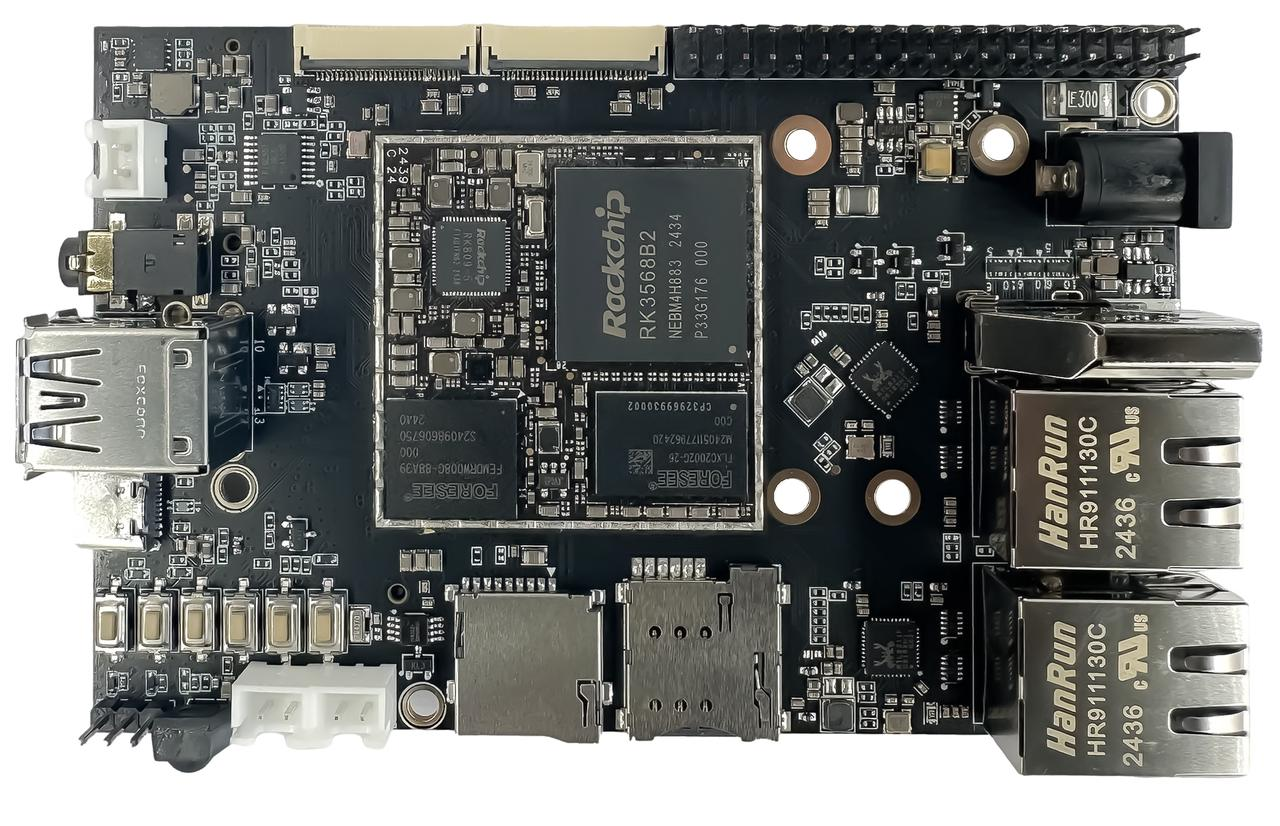
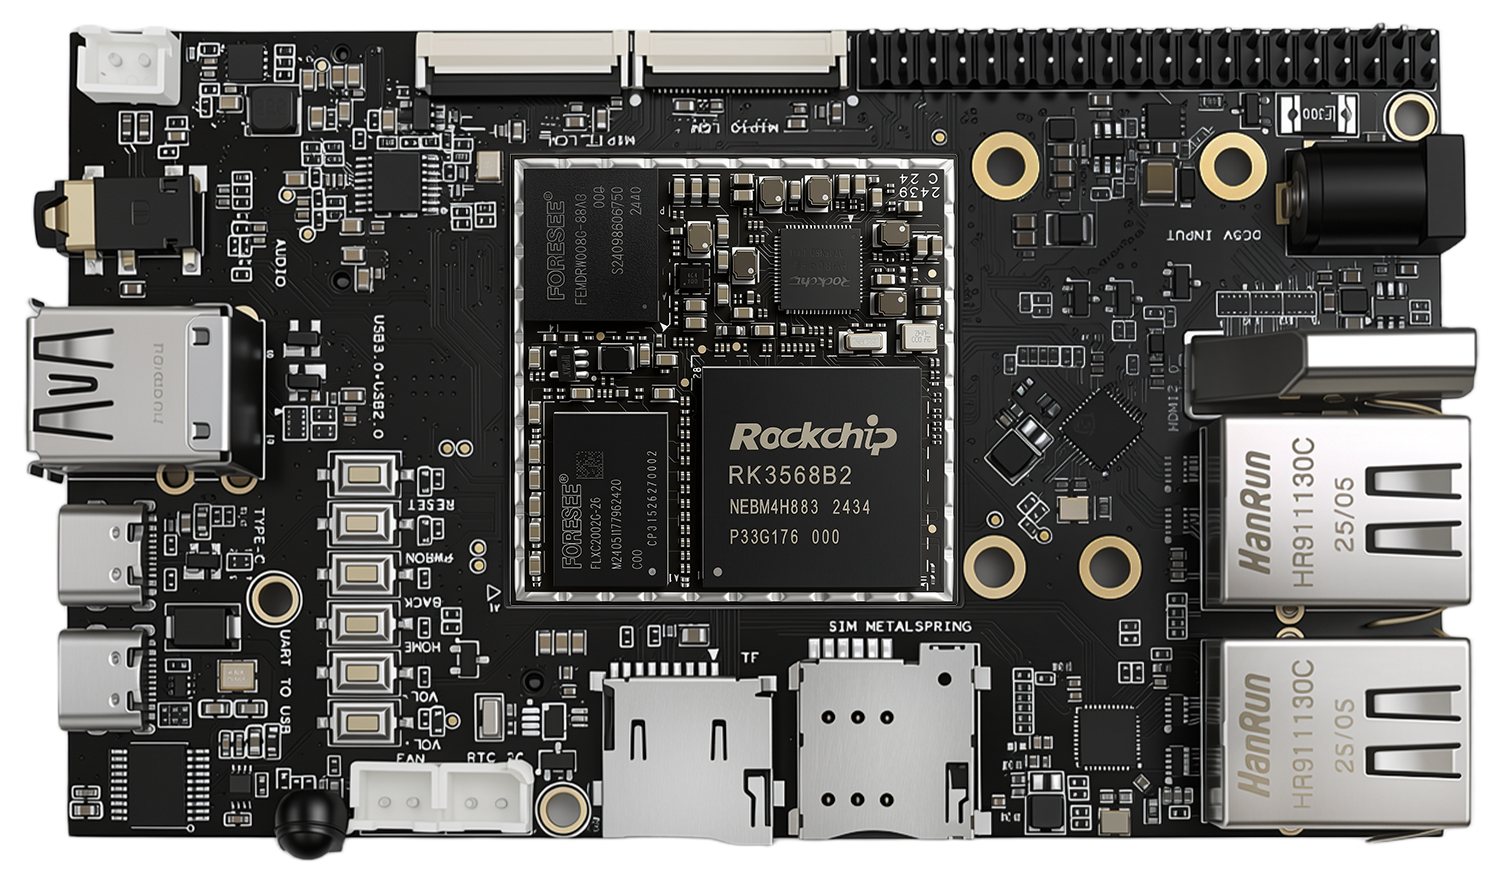
update 3568 doc image

diff --git a/docs/MYZR-瑞芯微系列/MYZR-RK3568-EK320(EN)/Product Introduction.rst b/docs/MYZR-瑞芯微系列/MYZR-RK3568-EK320(EN)/Product Introduction.rst
@@ -65,6 +65,7 @@ Signal Definition
 
 - Refer to the network disk: 2. Hardware Data -> 2.1- Principle and PCB -> Core Board Schematic Diagram
 
+
 Core Board Introduction
 --------------------------
 
@@ -89,19 +90,29 @@ Core Board Introduction
 Base Board Introduction
 --------------------------
 
-- Front view of the base board
+- Front view of the core board
 
 .. figure:: /image/MYZR-瑞芯微系列/MYZR-RK3568-EK320/底板正面图.jpg
    :alt: 底板正面图.jpg
    :width: 60%
 
-- Interface diagram of the base board
+- Back view of the core board
+
+.. figure:: /image/MYZR-瑞芯微系列/MYZR-RK3568-EK320/底板背面图.jpg
+   :alt: 底板背面图.jpg
+   :width: 60%
+
+- Dimension drawing of the core board
 
 .. figure:: /image/MYZR-瑞芯微系列/MYZR-RK3568-EK320/底板接口图.jpg
    :alt: 底板接口图.jpg
    :width: 60%
 
-- Dimension drawing of the base board
+.. figure:: /image/MYZR-瑞芯微系列/MYZR-RK3568-EK320/底板接口图2.jpg
+   :alt: 底板接口图2.jpg
+   :width: 60%
+
+- Base Plate Dimension Drawing
 
 .. figure:: /image/MYZR-瑞芯微系列/MYZR-RK3568-EK320/底板尺寸图.png
    :alt: 底板尺寸图.png

diff --git a/docs/MYZR-瑞芯微系列/MYZR-RK3568-EK320/产品介绍.rst b/docs/MYZR-瑞芯微系列/MYZR-RK3568-EK320/产品介绍.rst
@@ -97,10 +97,20 @@
    :alt: 底板正面图.jpg
    :width: 60%
 
+- 底板背面图
+
+.. figure:: /image/MYZR-瑞芯微系列/MYZR-RK3568-EK320/底板背面图.jpg
+   :alt: 底板背面图.jpg
+   :width: 60%
+
 - 底板接口图
 
 .. figure:: /image/MYZR-瑞芯微系列/MYZR-RK3568-EK320/底板接口图.jpg
    :alt: 底板接口图.jpg
+   :width: 60%
+
+.. figure:: /image/MYZR-瑞芯微系列/MYZR-RK3568-EK320/底板接口图2.jpg
+   :alt: 底板接口图2.jpg
    :width: 60%
 
 - 底板尺寸图
